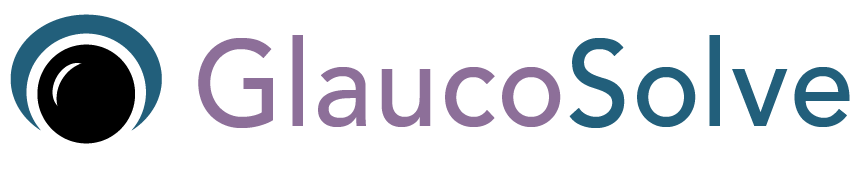
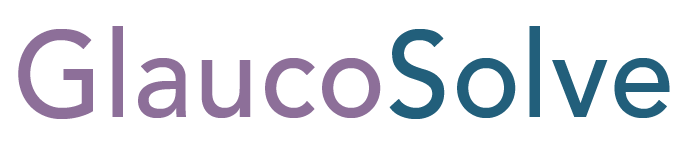
pretty much complete

Changed region(s): [[0.0, 0.0769, 0.9985, 0.7949]]

diff --git a/src/header/header.component.html b/src/header/header.component.html
@@ -1,31 +1,33 @@
-<nav class="navbar navbar-expand-lg navbar-light bg-light">
-  <div class="container-fluid">
-    <a class="navbar-brand" href="#">GlaucoSolve Labs</a>
+<nav class="navbar navbar-expand-lg navbar-light bg-light fixed-top" id="navbar">
+  <div class="container">
+    <a class="navbar-brand" href="#" (click)="scrollToSection($event, 'product-showcase')">
+      <img src="assets/favicon.ico" alt="GlaucoSolve Labs" height="40" class="nav-icon">
+    </a>
     <button class="navbar-toggler" type="button" data-bs-toggle="collapse" data-bs-target="#navbarNav" aria-controls="navbarNav" aria-expanded="false" aria-label="Toggle navigation">
       <span class="navbar-toggler-icon"></span>
     </button>
-    <div class="collapse navbar-collapse" id="navbarNav">
-      <ul class="navbar-nav ms-auto">
+    <div class="collapse navbar-collapse justify-content-center" id="navbarNav">
+      <ul class="navbar-nav d-flex flex-row">
         <li class="nav-item">
-          <a class="nav-link" href="#about-us">About Us</a>
+          <a class="nav-link" href="#about-us" (click)="scrollToSection($event, 'about-us')">About Us</a>
         </li>
         <li class="nav-item">
-          <a class="nav-link" href="#our-technology">Our Technology</a>
+          <a class="nav-link" href="#our-technology" (click)="scrollToSection($event, 'our-technology')">Our Technology</a>
         </li>
         <li class="nav-item">
-          <a class="nav-link" href="#unique-value">Unique Value</a>
+          <a class="nav-link" href="#unique-value" (click)="scrollToSection($event, 'unique-value')">Unique Value</a>
         </li>
         <li class="nav-item">
-          <a class="nav-link" href="#science-behind">Science Behind</a>
+          <a class="nav-link" href="#science-behind" (click)="scrollToSection($event, 'science-behind')">Science Behind</a>
         </li>
         <li class="nav-item">
-          <a class="nav-link" href="#experimental-results">Experimental Results</a>
+          <a class="nav-link" href="#experimental-results" (click)="scrollToSection($event, 'experimental-results')">Experimental Results</a>
         </li>
         <li class="nav-item">
-          <a class="nav-link" href="#testimonials">Testimonials</a>
+          <a class="nav-link" href="#testimonials" (click)="scrollToSection($event, 'testimonials')">Testimonials</a>
         </li>
         <li class="nav-item">
-          <a class="nav-link" href="#references">References</a>
+          <a class="nav-link" href="#references" (click)="scrollToSection($event, 'references')">References</a>
         </li>
       </ul>
     </div>

diff --git a/src/header/header.component.ts b/src/header/header.component.ts
@@ -1,12 +1,42 @@
-import { Component } from '@angular/core';
+import { Component, HostListener } from '@angular/core';
+import { CommonModule } from '@angular/common';
 
 @Component({
   selector: 'app-header',
   standalone: true,
-  imports: [],
+  imports: [CommonModule],
   templateUrl: './header.component.html',
-  styleUrl: './header.component.css'
+  styleUrls: ['./header.component.css']
 })
 export class HeaderComponent {
+  private lastScrollTop = 0;
 
+  @HostListener('window:scroll', [])
+  onWindowScroll() {
+    const navbar = document.getElementById('navbar');
+    const st = window.pageYOffset || document.documentElement.scrollTop;
+
+    if (st > this.lastScrollTop) {
+      // Downscroll
+      if (navbar) {
+        navbar.style.transform = 'translateY(-100%)'; // Move navbar out of view
+      }
+    } else {
+      // Upscroll
+      if (navbar) {
+        navbar.style.transform = 'translateY(0)'; // Move navbar into view
+      }
+    }
+    this.lastScrollTop = st <= 0 ? 0 : st; // For Mobile or negative scrolling
+  }
+
+  scrollToSection(event: Event, sectionId: string) {
+    event.preventDefault();
+    const section = document.getElementById(sectionId);
+    if (section) {
+      const yOffset = -80;
+      const y = section.getBoundingClientRect().top + window.pageYOffset + yOffset;
+      window.scrollTo({ top: y, behavior: 'smooth' });
+    }
+  }
 }

diff --git a/src/references/references.component.html b/src/references/references.component.html
@@ -59,5 +59,5 @@
         Zhang, J., Zhang, Y., & Li, Y. (2017, May 31). Correlation of IOP with Corneal Acoustic Impedance in Porcine Eye Model. BioMed Research International. <a href="https://www.hindawi.com/journals/bmri/2017/2959717/" target="_blank">https://www.hindawi.com/journals/bmri/2017/2959717/</a>
       </li>
     </ul>
-    <button (click)="toggleReferences()" class="btn btn-primary mt-3">{{ showAllReferences ? 'Show Less' : 'Show More' }}</button>
+    <button (click)="toggleReferences()" class="btn btn-show-more">{{ showAllReferences ? 'Show Less' : 'Show More' }}</button>
   </div>

diff --git a/src/references/references.component.css b/src/references/references.component.css
@@ -12,11 +12,28 @@
     background-color: #f8f9fa;
 }
   
+#references .btn-show-more {
+    background-color: #2e86c1;
+    border-color: #2e86c1;
+    color: white;
+}
+  
+#references .btn-show-more:hover {
+    background-color: #245c7c; /* Slightly darker shade for hover effect */
+    border-color: #245c7c;
+}
+  
 .references-list li a {
-    color: #007bff;
+    color: #2e86c1;
     text-decoration: none;
 }
   
 .references-list li a:hover {
+    color: #245c7c;
     text-decoration: underline;
 }
+
+.container {
+    margin-top: 2rem;
+}
+  

diff --git a/src/product-showcase/product-showcase.component.css b/src/product-showcase/product-showcase.component.css
@@ -1,0 +1,31 @@
+#product-showcase {
+    background-color: black;
+    text-align: center;
+    height: 100vh;
+    display: flex;
+    align-items: center;
+    justify-content: center;
+  }
+  
+  .display-1 {
+    font-size: 6rem;
+  }
+  
+  .glauco {
+    color: #a569bd;
+  }
+  
+  .solve {
+    color: #2e86c1;
+  }
+  
+  @media (min-width: 768px) {
+    .display-1 {
+      font-size: 10rem;
+    }
+}
+
+.container {
+    margin-top: 2rem;
+}
+  

diff --git a/src/footer/footer.component.html b/src/footer/footer.component.html
@@ -1,3 +1,8 @@
-<footer class="bg-light text-center py-3">
-    <p>&copy; 2023 GlaucoSolve Labs. All rights reserved.</p>
-  </footer>
+<footer class="footer bg-light py-3">
+  <div class="container">
+    <div class="d-flex justify-content-between">
+      <span class="text-muted">&copy; 2023 GlaucoSolve Labs</span>
+      <a class="text-muted" href="mailto:glaucosolve@gmail.com">Contact Us</a>
+    </div>
+  </div>
+</footer>

diff --git a/src/product-showcase/product-showcase.component.html b/src/product-showcase/product-showcase.component.html
@@ -1,4 +1,5 @@
-<div class="container text-center my-5">
-    <h1>GlaucoSolve</h1>
-    <p>Saving vision, one patient at a time.</p>
-</div>
+<div id="product-showcase" class="d-flex align-items-center justify-content-center vh-100 text-white">
+    <h1 class="display-1 animate__animated animate__fadeInDown">
+      <span class="glauco">Glauco</span><span class="solve">Solve</span>
+    </h1>
+  </div>

diff --git a/src/styles.css b/src/styles.css
@@ -1,5 +1,7 @@
 /* You can add global styles to this file, and also import other style files */
 
+@import 'https://cdnjs.cloudflare.com/ajax/libs/animate.css/4.1.1/animate.min.css';
+
 h2 {
     font-size: 2.5rem; /* Adjust as needed */
 }
@@ -9,10 +11,6 @@ h2 {
     line-height: 1.6; /* Improve readability */
 }
 
-.container {
-    margin-top: 2rem;
-  }
-  
 h2 {
     margin-bottom: 1.5rem;
 }

diff --git a/src/footer/footer.component.css b/src/footer/footer.component.css
@@ -1,0 +1,18 @@
+.footer {
+    background-color: black; /* Set the background color to black */
+    color: white; /* Ensure text is visible on the black background */
+}
+  
+.text-muted {
+    color: #a0a0a0 !important;
+}
+  
+.footer a {
+    color: #a0a0a0;
+    text-decoration: none;
+}
+  
+.footer a:hover {
+    color: black !important;
+}
+

diff --git a/src/header/header.component.css b/src/header/header.component.css
@@ -1,9 +1,9 @@
 .navbar {
-    margin-bottom: 2rem;
-  }
-  
-.nav-link {
-    font-size: 1rem;
-    padding: 0.5rem 1rem;
+  transition: transform 0.3s ease-in-out;
+  background-color: black; /* Change the navbar background color to black */
 }
-  
+
+.navbar .navbar-nav {
+  display: flex !important;
+  flex-direction: row !important;
+}

diff --git a/src/our-technology/our-technology.component.css b/src/our-technology/our-technology.component.css
@@ -10,3 +10,8 @@ h3, h4 {
     align-items: center;
     justify-content: center;
 }
+
+.container {
+    margin-top: 2rem;
+}
+  

diff --git a/src/the-science-behind-glaucoglasses/the-science-behind-glaucoglasses.component.css b/src/the-science-behind-glaucoglasses/the-science-behind-glaucoglasses.component.css
@@ -4,3 +4,8 @@
     margin-left: 2rem;
     margin-bottom: 2rem;
 }
+
+.container {
+    margin-top: 2rem;
+}
+  
